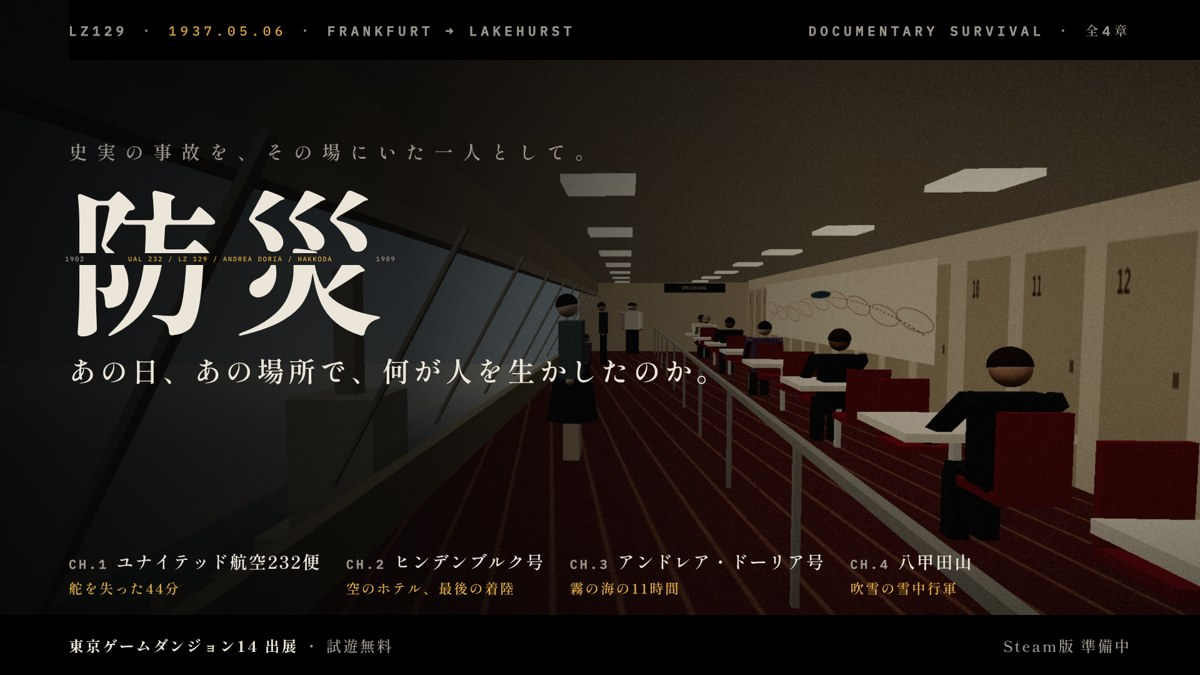
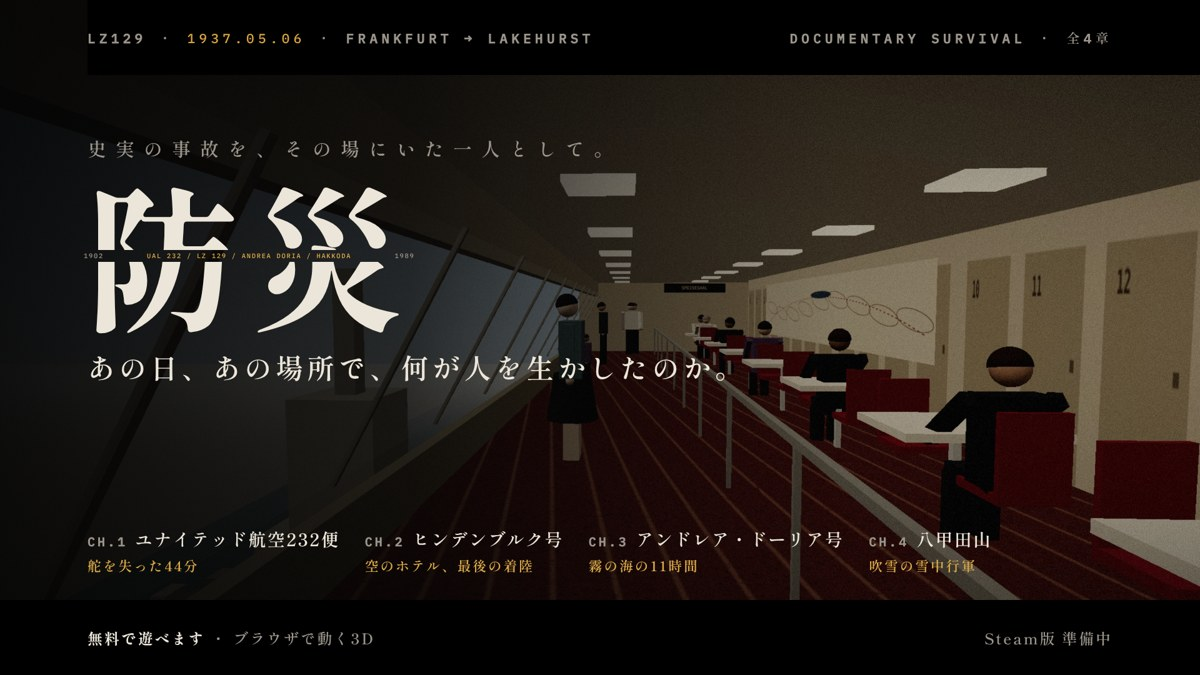
Add files via upload

diff --git a/index.html b/index.html
@@ -68,8 +68,6 @@ p.tx { font-size: 15.5px; line-height: 2; margin: 0 0 10px; color: #ddd6c9; }
     <p class="tag">史実の事故を、その場にいた一人として。</p>
   </header>
 
-  <div class="ev"><span>2026.10.31 SAT</span><b>東京ゲームダンジョン14</b> に出展します。ブースで試遊できます。</div>
-
   <nav class="links" aria-label="リンク">
     <a class="lk" href="https://x.com/wano49" target="_blank" rel="noopener">作者 wano の X<small>@wano49 →</small></a>
     <a class="lk" href="https://lit.link/wano49" target="_blank" rel="noopener">作者のリンク集(漫画など)<small>lit.link →</small></a>
